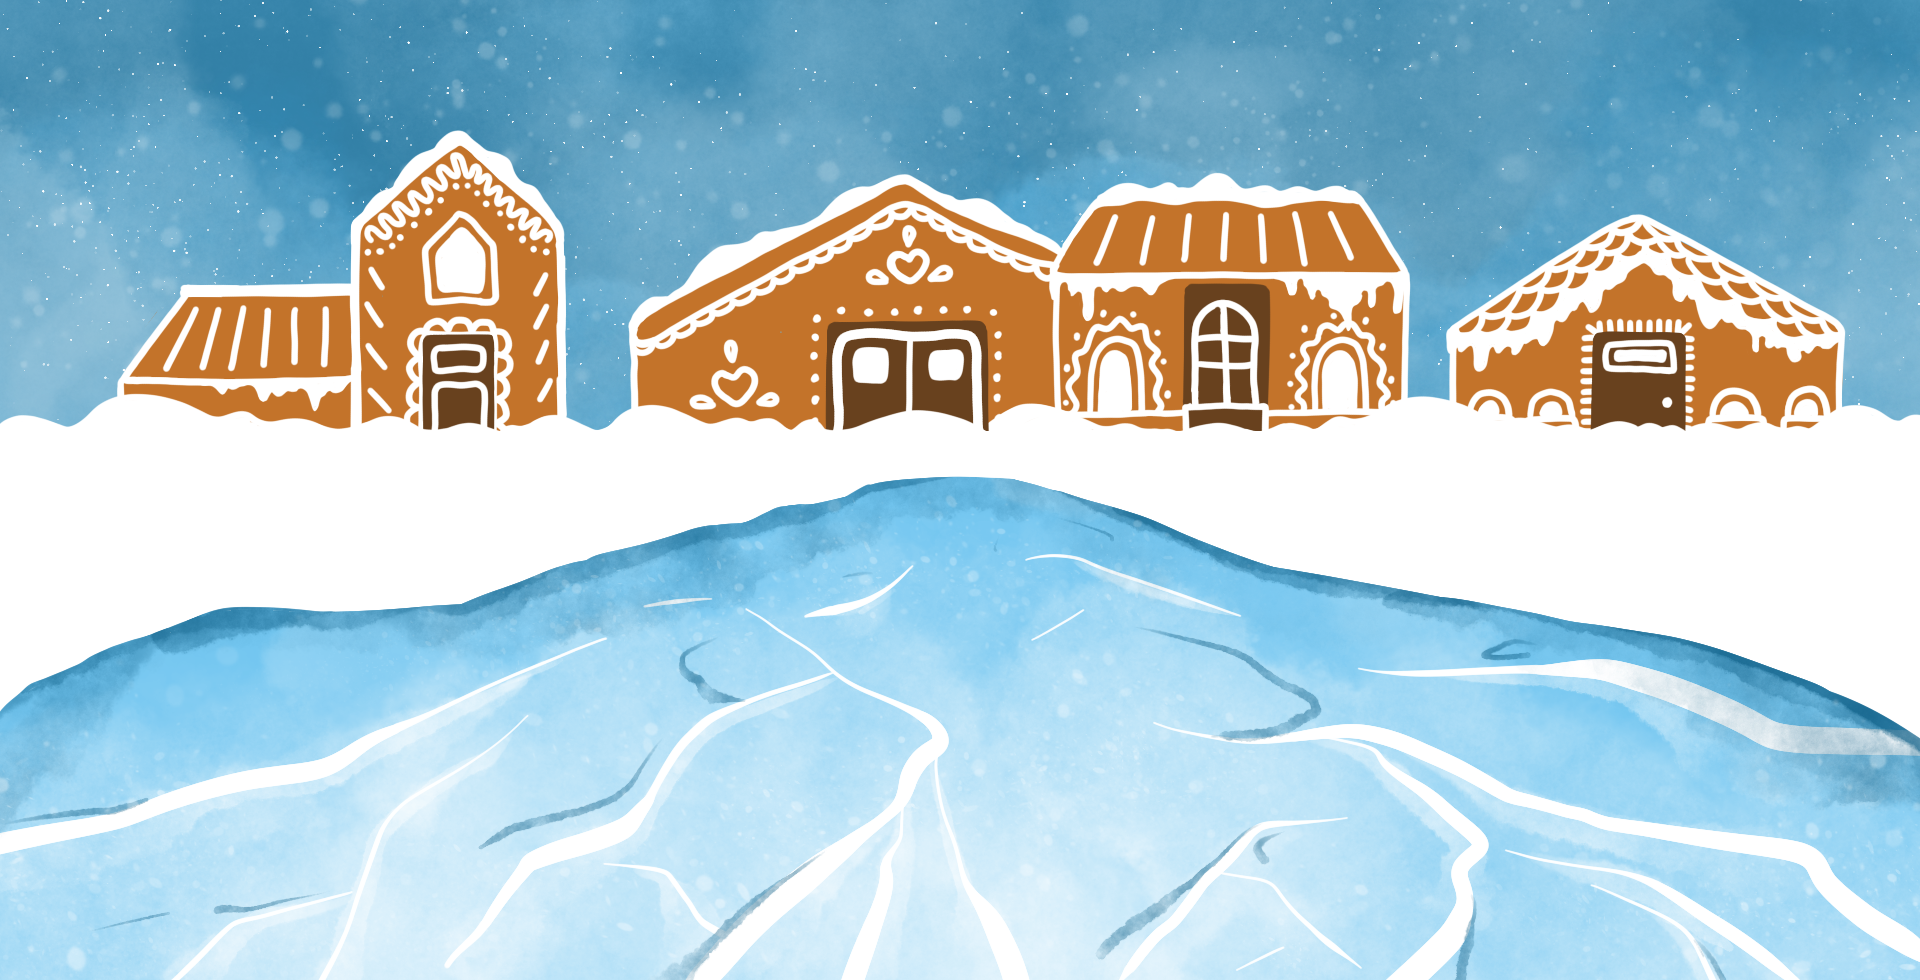
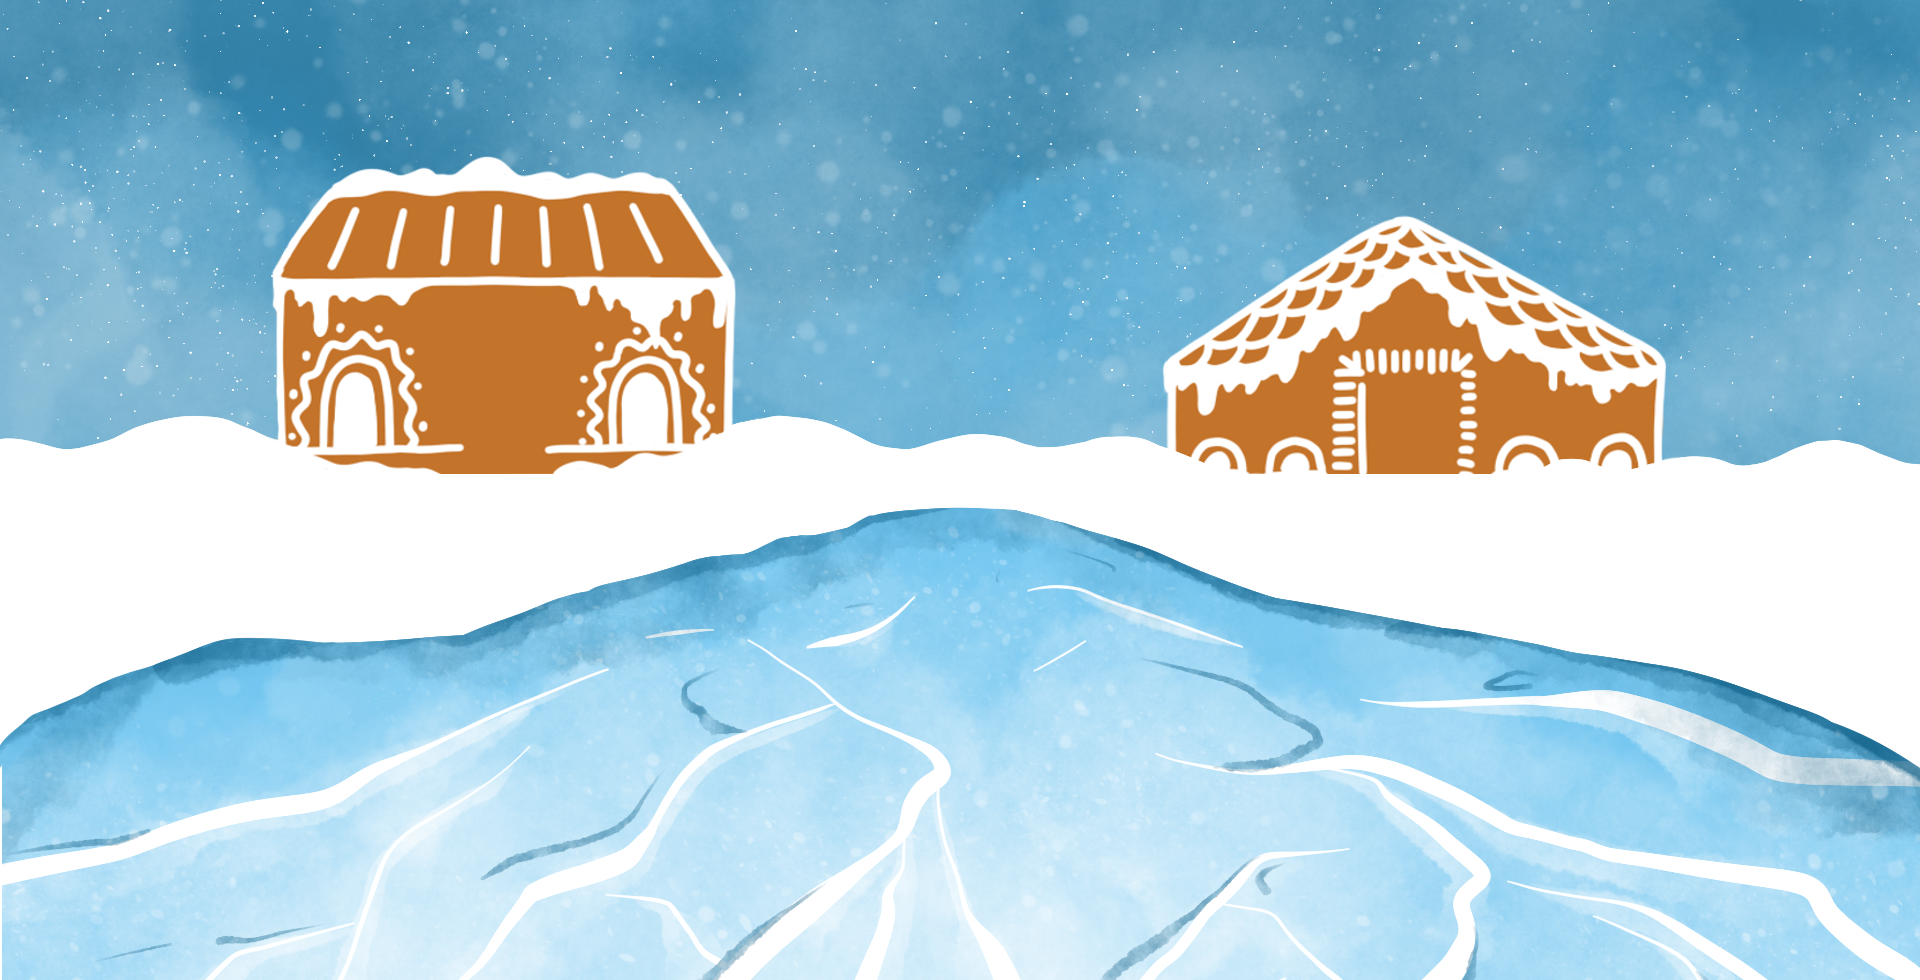
smth

diff --git a/main.js b/main.js
@@ -17,8 +17,8 @@ const textureLoader = new THREE.TextureLoader();
 
 const forestTexture = textureLoader.load("images/bg.png");
 var forestGeometry = new THREE.PlaneGeometry(
-  window.innerWidth * 0.34,
-  window.innerHeight * 0.34,
+  window.innerWidth * 0.36,
+  window.innerHeight * 0.36,
   1,
   1
 );
@@ -29,29 +29,31 @@ var forestMaterial = new THREE.MeshPhongMaterial({
 var forest = new THREE.Mesh(forestGeometry, forestMaterial);
 forest.receiveShadow = true;
 
+forest.position.y = 15;
 forest.position.z = -99;
 scene.add(forest);
 
-const lakeTexture = textureLoader.load("images/back_bg.png");
+const lakeTexture = textureLoader.load("images/bg.png");
 var lakeGeometry = new THREE.PlaneGeometry(
   window.innerWidth * 0.34,
   window.innerHeight * 0.34,
   1,
   1
 );
-const lakeMaterial = new THREE.MeshStandardMaterial({ color: "white" });
+var lakeMaterial = new THREE.MeshPhongMaterial({
+  map: lakeTexture,
+  side: THREE.DoubleSide,
+});
 lakeMaterial.receiveShadow = true;
 
 var lake = new THREE.Mesh(lakeGeometry, lakeMaterial);
 lake.receiveShadow = true;
-lake.rotation.x = Math.PI / 2;
-lake.rotation.y = Math.PI;
+lake.rotation.x = Math.PI / 2 *3;
 lake.position.y = 15;
 lake.position.z = -110;
 scene.add(lake);
 
 // STARS
-
 var starGeom = new THREE.PlaneGeometry(65, 50);
 const starTexture = textureLoader.load("images/star.png");
 var starMaterial = new THREE.MeshPhongMaterial({
@@ -61,80 +63,54 @@ var starMaterial = new THREE.MeshPhongMaterial({
   alphaTest: 0.5,
 });
 var star1 = new THREE.Mesh(starGeom, starMaterial);
-star1.position.x = -150;
-star1.position.z = -60;
-star1.position.y = 70;
+star1.position.x = -180;
+star1.position.z = -65;
+star1.position.y = 90;
 star1.castShadow = true;
 scene.add(star1);
 
 var star2 = new THREE.Mesh(starGeom, starMaterial);
-star2.position.x = -40;
+star2.position.x = -15;
 star2.position.z = -40;
-star2.position.y = 40;
+star2.position.y = 55;
 star2.castShadow = true;
 scene.add(star2);
 
 var star3 = new THREE.Mesh(starGeom, starMaterial);
-star3.position.x = 130;
+star3.position.x = 190;
 star3.position.z = -80;
-star3.position.y = 100;
+star3.position.y = 110;
 star3.castShadow = true;
 scene.add(star3);
 
 // DOORS
-
-var door1Geom = new THREE.PlaneGeometry(24, 30);
+var door1Geom = new THREE.PlaneGeometry(32, 40);
 const door1Texture = textureLoader.load("images/door1.png");
 var door1Material = new THREE.MeshPhongMaterial({
   map: door1Texture,
   side: THREE.DoubleSide,
 });
 var door1 = new THREE.Mesh(door1Geom, door1Material);
-door1.position.x = -150;
+door1.position.x = -145;
 door1.position.z = -99;
-door1.position.y = 30;
+door1.position.y = 38;
 scene.add(door1);
 
-var door2Geom = new THREE.PlaneGeometry(48, 35);
-const door2Texture = textureLoader.load("images/door2.png");
-var door2Material = new THREE.MeshPhongMaterial({
-  map: door2Texture,
-  side: THREE.DoubleSide,
-});
-var door2 = new THREE.Mesh(door2Geom, door2Material);
-door2.position.x = -16;
-door2.position.z = -99;
-door2.position.y = 32;
-scene.add(door2);
-
-var door3Geom = new THREE.PlaneGeometry(27, 43);
-const door3Texture = textureLoader.load("images/door3.png");
-var door3Material = new THREE.MeshPhongMaterial({
-  map: door3Texture,
-  side: THREE.DoubleSide,
-});
-var door3 = new THREE.Mesh(door3Geom, door3Material);
-door3.position.x = 80;
-door3.position.z = -99;
-door3.position.y = 37;
-scene.add(door3);
-
-var door4Geom = new THREE.PlaneGeometry(30, 30);
+var door4Geom = new THREE.PlaneGeometry(32, 32);
 const door4Texture = textureLoader.load("images/door4.png");
 var door4Material = new THREE.MeshPhongMaterial({
   map: door4Texture,
   side: THREE.DoubleSide,
 });
 var door4 = new THREE.Mesh(door4Geom, door4Material);
-door4.position.x = 205;
+door4.position.x = 143;
 door4.position.z = -99;
-door4.position.y = 30;
+door4.position.y = 35;
 scene.add(door4);
 
 // PIG
-
 const pigGeometry = new THREE.BoxGeometry(7, 5, 4);
-const pigMaterial = new THREE.MeshStandardMaterial({ color: "pink" });
+const pigMaterial = new THREE.MeshStandardMaterial({ color: "#FFC0CB" });
 const pig = new THREE.Mesh(pigGeometry, pigMaterial);
 pig.castShadow = true;
 pig.receiveShadow = true;
@@ -142,31 +118,25 @@ pig.position.set(0, 0, 0);
 pig.rotation.y = Math.PI / 8;
 scene.add(pig);
 
-/* const headGeometry = new THREE.BoxGeometry(4.5, 4.5, 4.5);
-const head = new THREE.Mesh(headGeometry, pigMaterial);
-head.castShadow = true;
-head.receiveShadow = true;
-head.position.set(-2, 2, 0);
-pig.add(head);
 const headGeometry = new THREE.BoxGeometry(4.5, 4.5, 4.5);
 const head = new THREE.Mesh(headGeometry, pigMaterial);
 head.castShadow = true;
 head.receiveShadow = true;
 head.position.set(-2, 2, 0);
 pig.add(head);
-const headGeometry = new THREE.BoxGeometry(4.5, 4.5, 4.5);
-const head = new THREE.Mesh(headGeometry, pigMaterial);
-head.castShadow = true;
-head.receiveShadow = true;
-head.position.set(-2, 2, 0);
-pig.add(head); */
 
-const headGeometry = new THREE.BoxGeometry(4.5, 4.5, 4.5);
-const head = new THREE.Mesh(headGeometry, pigMaterial);
-head.castShadow = true;
-head.receiveShadow = true;
-head.position.set(-2, 2, 0);
-pig.add(head);
+const headImg = textureLoader.load("images/face.png");
+const headMaterial = new THREE.MeshBasicMaterial({
+  map: headImg,
+  transparent: true,
+});
+const headFace = new THREE.Mesh(
+  new THREE.PlaneGeometry(4.5, 4.5),
+  headMaterial
+);
+headFace.position.x = -2.25;
+headFace.rotation.y = (Math.PI / 2) * 3;
+head.add(headFace);
 
 const mouthGeometry = new THREE.BoxGeometry(2.5, 1.5, 2);
 const mouth = new THREE.Mesh(mouthGeometry, pigMaterial);
@@ -174,6 +144,19 @@ mouth.castShadow = true;
 mouth.receiveShadow = true;
 mouth.position.set(-1.8, -0.5, 0);
 head.add(mouth);
+
+const mouthImg = textureLoader.load("images/nose.png");
+const mouthMaterial = new THREE.MeshBasicMaterial({
+  map: mouthImg,
+  transparent: true,
+});
+const mouthFace = new THREE.Mesh(
+  new THREE.PlaneGeometry(2.5, 1.5),
+  mouthMaterial
+);
+mouthFace.position.x = -1.3;
+mouthFace.rotation.y = (Math.PI / 2) * 3;
+mouth.add(mouthFace);
 
 const earGeometry = new THREE.BoxGeometry(0.5, 1.5, 2);
 const ear1 = new THREE.Mesh(earGeometry, pigMaterial);
@@ -187,6 +170,21 @@ ear2.castShadow = true;
 ear2.receiveShadow = true;
 head.add(ear2);
 
+const earImg = textureLoader.load("images/ear.png");
+const earMaterial = new THREE.MeshBasicMaterial({
+  map: earImg,
+  transparent: true,
+});
+const earFace1 = new THREE.Mesh(new THREE.PlaneGeometry(2.5, 1.5), earMaterial);
+earFace1.position.x = -0.3;
+earFace1.rotation.y = (Math.PI / 2) * 3;
+ear1.add(earFace1);
+const earFace2 = new THREE.Mesh(new THREE.PlaneGeometry(2.5, 1.5), earMaterial);
+earFace2.position.x = -0.3;
+earFace2.rotation.y = (Math.PI / 2) * 3;
+ear1.add(earFace2);
+ear2.add(earFace2);
+
 const eartopGeometry = new THREE.BoxGeometry(1, 0.5, 2);
 const eartop = new THREE.Mesh(eartopGeometry, pigMaterial);
 eartop.position.set(-0.25, 0.5, 0);
@@ -195,6 +193,27 @@ eartop.receiveShadow = true;
 const eartop2 = eartop.clone();
 ear1.add(eartop);
 ear2.add(eartop2);
+
+const tailGeometry1 = new THREE.BoxGeometry(0.5, 3, 0.5);
+const tail1 = new THREE.Mesh(tailGeometry1, pigMaterial);
+tail1.position.set(3, 3, 0);
+tail1.castShadow = true;
+tail1.receiveShadow = true;
+pig.add(tail1);
+
+const tailGeometry2 = new THREE.BoxGeometry(1.5, 0.5, 0.5);
+const tail2 = new THREE.Mesh(tailGeometry2, pigMaterial);
+tail2.position.set(-0.5, 1.5, 0);
+tail2.castShadow = true;
+tail2.receiveShadow = true;
+tail1.add(tail2);
+
+const tailGeometry3 = new THREE.BoxGeometry(0.5, 1.5, 0.5);
+const tail3 = new THREE.Mesh(tailGeometry3, pigMaterial);
+tail3.position.set(-0.5, -0.5, 0);
+tail3.castShadow = true;
+tail3.receiveShadow = true;
+tail2.add(tail3);
 
 const legGeometry = new THREE.BoxGeometry(2, 3, 1.9);
 const leg_br = new THREE.Mesh(legGeometry, pigMaterial);
@@ -223,7 +242,7 @@ leg_fr.rotation.z = -Math.PI / 8;
 pig.add(leg_fr);
 
 const bottomGeometry = new THREE.BoxGeometry(2, 0.5, 1.9);
-const bottomMaterial = new THREE.MeshStandardMaterial({ color: "red" });
+const bottomMaterial = new THREE.MeshStandardMaterial({ color: "#68411e" });
 const legBottom = new THREE.Mesh(bottomGeometry, bottomMaterial);
 legBottom.position.set(0, -1.5, 0);
 legBottom.castShadow = true;
@@ -236,19 +255,18 @@ leg_fl.add(legBottom3);
 const legBottom4 = legBottom.clone();
 leg_fr.add(legBottom4);
 
-pig.position.set(215, 20, -105);
+pig.position.set(150, 20, -105);
 pig.rotation.y = Math.PI / 12;
 
 camera.position.z = 20;
 camera.position.y = 20;
 
 // LIGHTS
-
 const ambientLight = new THREE.AmbientLight("white", 0.9);
 scene.add(ambientLight);
 
-const pigLight = new THREE.DirectionalLight(0xffffff, 0.5);
-pigLight.position.set(-80, 200, -40);
+const pigLight = new THREE.DirectionalLight("orange", 0.5);
+pigLight.position.set(-120, 200, -40);
 pigLight.castShadow = true;
 pigLight.shadow.camera.left = -20;
 pigLight.shadow.camera.right = 20;
@@ -256,16 +274,6 @@ pigLight.shadow.camera.top = 20;
 pigLight.shadow.camera.bottom = -20;
 pigLight.target = pig;
 scene.add(pigLight);
-
-const starLight = new THREE.DirectionalLight(0xffffff, 0.2);
-starLight.position.set(-5, 40, 40);
-starLight.shadow.camera.left = -150;
-starLight.shadow.camera.right = 200;
-starLight.shadow.camera.top = 100;
-starLight.shadow.camera.bottom = -100;
-starLight.castShadow = true;
-scene.add(starLight);
-starLight.target = star2;
 
 let initialPig = pig.position.y;
 let initialHead = head.position.y;
@@ -296,7 +304,7 @@ function animatePig() {
     if (hasSlipped) runningSpeed -= 0.0005;
     else runningSpeed += 0.0003;
 
-    pig.position.x -= runningSpeed * 1.9;
+    pig.position.x -= runningSpeed * 1.4;
     pig.position.z += runningSpeed;
   } else {
     showGift();
@@ -358,7 +366,7 @@ function animatePig() {
 
 function resumeAnimation() {
   shouldAnimatePig = false;
-  pig.position.set(215, 20, -105);
+  pig.position.set(150, 20, -105);
   pig.rotation.y = Math.PI / 12;
 
   leg_br.rotation.z = Math.PI / 8;
@@ -388,7 +396,7 @@ function onMouseClick(event) {
 
   raycaster.setFromCamera(mouse, camera);
 
-  var doors = [door1, door2, door3, door4];
+  var doors = [door1, door4];
 
   var intersects = raycaster.intersectObjects(doors);
 
@@ -396,11 +404,6 @@ function onMouseClick(event) {
     var clickedDoor = intersects[0].object;
 
     if (clickedDoor === door1) {
-      showStars();
-    } else if (clickedDoor === door2) {
-      playSong();
-    } else if (clickedDoor === door3) {
-      shouldAnimatePig = false;
       showRestart();
     } else if (clickedDoor === door4) {
       shouldAnimatePig = true;
@@ -417,24 +420,6 @@ animate();
 var playButton = document.getElementById("playButton");
 function handleClick(event) {}
 playButton.addEventListener("click", handleClick);
-
-function animateStarFalling(star, targetY) {
-  const tween = new TWEEN.Tween(star.position)
-    .to({ y: targetY }, 1000) // Adjust the duration as needed
-    .easing(TWEEN.Easing.Quadratic.Out)
-    .start();
-}
-
-function showStars() {
-  animateStarFalling(star1, 0);
-  animateStarFalling(star2, 0);
-  animateStarFalling(star3, 0);
-}
-
-function playSong() {
-  var song = document.getElementById("song");
-  song.play();
-}
 
 function showGift() {
   var playButton = document.getElementById("playButton");

diff --git a/style.css b/style.css
@@ -7,7 +7,7 @@
   top: -70%;
   left: 36%;
   transform: translate(0%, 0%);
-  transition: all 1s ease;
+  transition: bottom 1s ease, top 1s ease;
   pointer-events: none;
   border-radius: 16px;
   box-shadow: 0 0 200px rgba(0, 0, 0, 1); /* Box shadow with 20px blur and 50% opacity */
